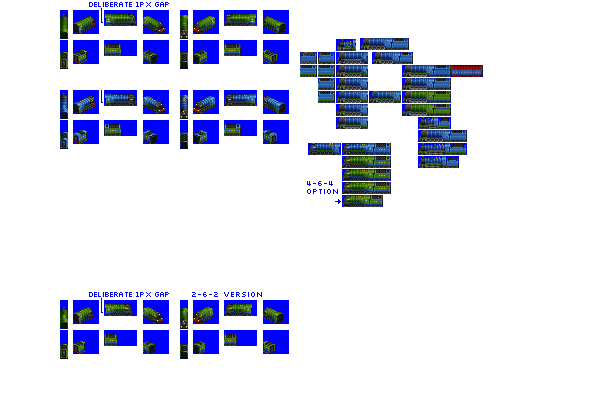
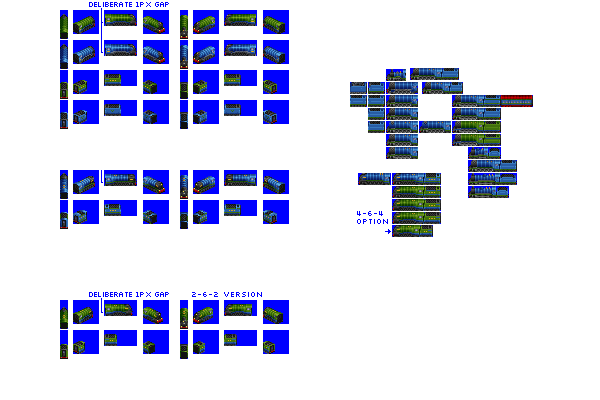
Change: additional liveries for Flindermouse, Hawkinge and Streamer

Changed region(s): [[0.09, 0.09, 0.9, 0.6], [0.09, 0.42, 0.48, 0.57]]

diff --git a/src/vehicles/streamer.py b/src/vehicles/streamer.py
@@ -16,12 +16,13 @@ def main(roster_id):
         gen=3,
         intro_year_offset=4,  # introduce later than gen epoch by design
         force_default_pax_mail_livery=2,  # pax/mail cars default to second livery with this engine
+        additional_liveries=["BANGER_BLUE"],
         default_livery_extra_docs_examples=[
             ("COLOUR_DARK_GREEN", "COLOUR_DARK_GREEN"),
             ("COLOUR_GREY", "COLOUR_WHITE"),
             ("COLOUR_WHITE", "COLOUR_BLUE"),
         ],
-        sprites_complete=False,
+        sprites_complete=True,
     )
 
     consist.add_unit(

diff --git a/src/vehicles/flindermouse.py b/src/vehicles/flindermouse.py
@@ -16,6 +16,7 @@ def main(roster_id):
         gen=2,
         pantograph_type="diamond-double",
         intro_year_offset=7,  # introduce later than gen epoch by design
+        additional_liveries=["BANGER_BLUE"],
         sprites_complete=True,
     )
 

diff --git a/src/vehicles/hawkinge.py b/src/vehicles/hawkinge.py
@@ -15,6 +15,7 @@ def main(roster_id):
         tractive_effort_coefficient=0.25,
         gen=3,
         intro_year_offset=5,  # introduce later than gen epoch by design
+        additional_liveries=["BANGER_BLUE"],
         sprites_complete=True,
     )
 
